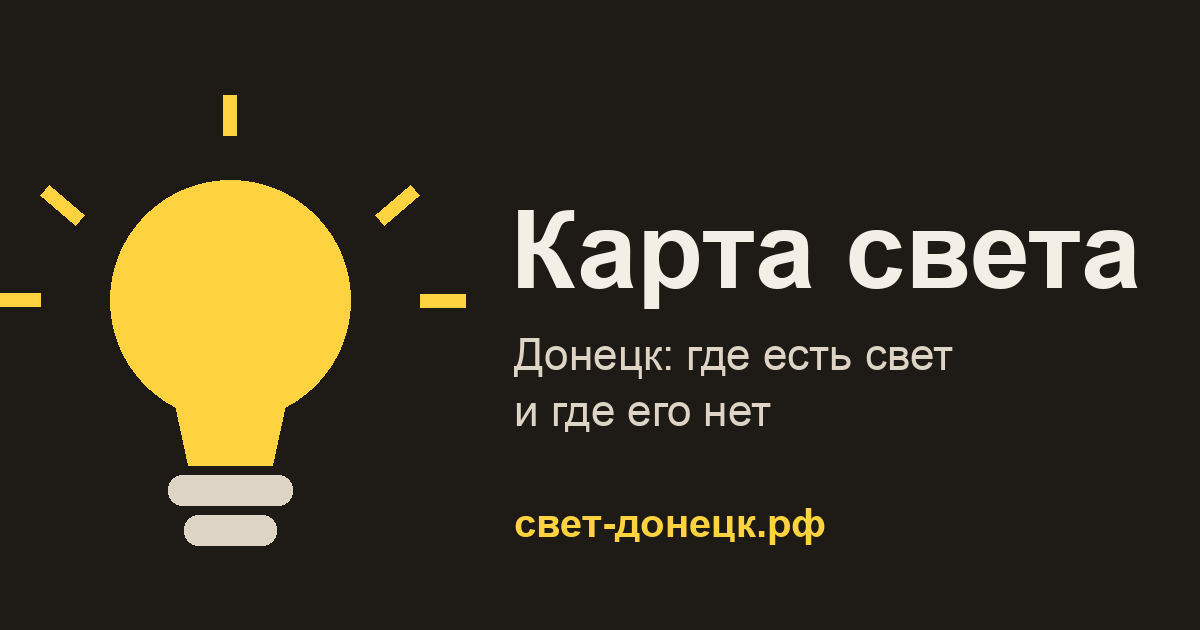
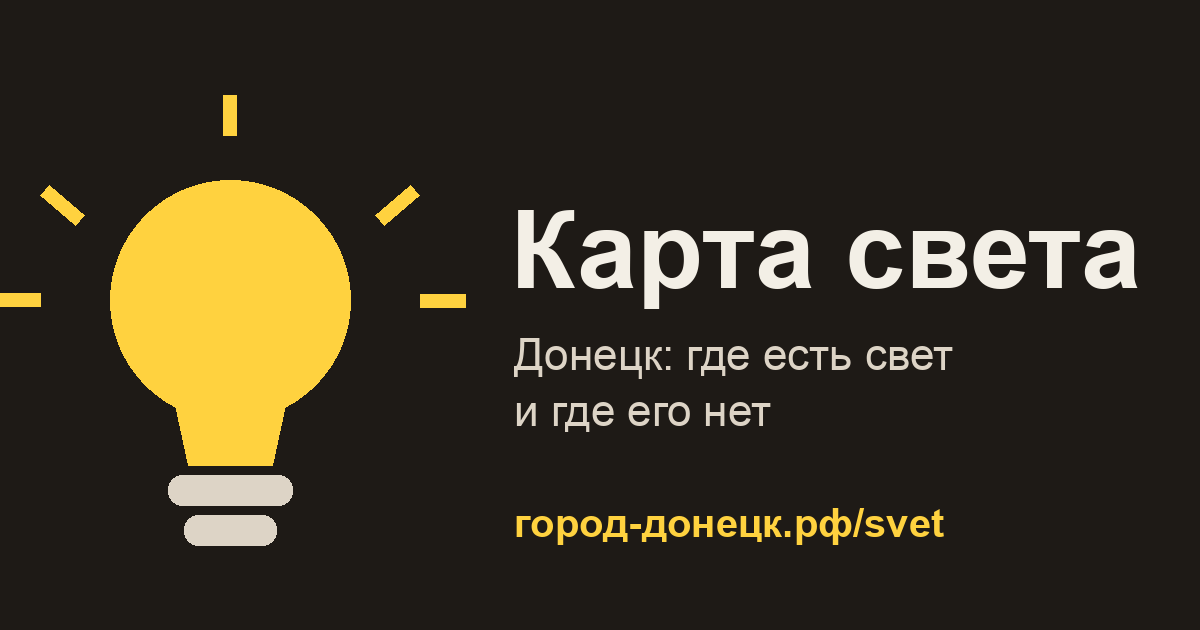
карта живёт разделом портала: префикс /svet и адрес из окружения
KARTA_ORIGIN, KARTA_BASE и KARTA_COUNTER задают домен, префикс раздела и счётчик. Сервер принимает пути с префиксом и без (старые датчики ходят в /api/ без него), в готовых страницах корневые ссылки получают префикс. Старый домен только перенаправляет, vhost нового домена добавлен.

Changed region(s): [[0.4317, 0.8143, 0.8017, 0.8746]]

diff --git a/index.html b/index.html
@@ -117,7 +117,7 @@
       <h3>Как узнать, есть ли свет в Донецке прямо сейчас?</h3><p>Откройте карту света: цвет каждой улицы показывает последнюю отметку, а блёклость показывает её возраст. Зелёный значит «свет есть», красный «света нет», серый «за сутки данных нет». Нажмите на улицу, чтобы увидеть, когда её отмечали и сколько людей это подтвердили.</p><h3>Откуда берутся данные о свете?</h3><p>Из отметок жителей на карте, сообщений в районных чатах и каналах, датчиков у жителей с постоянным интернетом и графика подачи света Киевского района. Точные данные рисуются сплошной линией, слова людей пунктиром.</p><h3>Куда звонить, если нет света?</h3><p>В информационно-консультационный центр Донецкэнерго: +7 (856) 302-11-51 и +7 (949) 300-79-30. Телефоны диспетчеров всех девяти районов собраны на странице «Куда звонить».</p><h3>Это официальный сайт Донецкэнерго?</h3><p>Нет. Карта света независимый проект жителей: данные собраны из отметок людей и открытых источников, поэтому важное проверяйте по телефону диспетчера.</p><h3>Как отметить свет на своей улице?</h3><p>Нажмите на карте на свою улицу, выберите размер области вокруг точки и кнопку «Свет есть» или «Света нет». Отметка сразу видна всем.</p>
     </section>
 
-    <p class="foot"><a href="about.html">О карте и источниках</a>. Линии улиц © участники OpenStreetMap.</p>
+    <p class="foot"><a href="{{HOME}}">Город Донецк</a>. <a href="about.html">О карте и источниках</a>. Линии улиц © участники OpenStreetMap.</p>
 
     <div id="last-mark" class="last-mark" aria-live="polite"></div>
   </aside>

diff --git a/about.html b/about.html
@@ -31,7 +31,7 @@
 </head>
 <body class="page">
   <article class="about">
-    <p class="eyebrow"><a href="./">← К карте</a></p>
+    <p class="eyebrow"><a href="./">← К карте</a> · <a href="{{HOME}}">Город Донецк</a></p>
     <h1>О карте света</h1>
     <p id="banner" class="banner"></p>
 

diff --git a/seo.py b/seo.py
@@ -7,6 +7,7 @@
 
 import html
 import json
+import os
 import re
 import time
 from contextlib import closing
@@ -18,7 +19,34 @@ import store
 from model import distance_m
 
 ROOT = Path(__file__).resolve().parent
-SITE = "https://xn----ctbhcc4athwm3c.xn--p1ai"
+# Исторический адрес: так написаны статические страницы (index.html, about.html).
+LEGACY_ORIGIN = "https://xn----ctbhcc4athwm3c.xn--p1ai"
+LEGACY_COUNTER = "113728535"
+# Где живёт карта. Отдельный домен: ORIGIN без BASE. Раздел портала: KARTA_BASE=/svet.
+ORIGIN = os.environ.get("KARTA_ORIGIN", LEGACY_ORIGIN).rstrip("/")
+BASE = os.environ.get("KARTA_BASE", "").rstrip("/")
+COUNTER = os.environ.get("KARTA_COUNTER", LEGACY_COUNTER)
+SITE = ORIGIN + BASE
+
+_LOCAL_LINK = re.compile(r'(\b(?:href|src|action)=")/(?!/)')
+
+
+def localize(text):
+    """Подгоняет готовую HTML-страницу под адрес и префикс из окружения.
+
+    Адреса сайта и корневые ссылки (`/ulica/...`, `/styles.css`) пишутся как для отдельного домена,
+    а когда карта живёт в разделе портала, получают префикс. Номер счётчика тоже берётся из окружения.
+    """
+    text = text.replace("{{HOME}}", ORIGIN + "/")
+    if SITE != LEGACY_ORIGIN:
+        text = text.replace(LEGACY_ORIGIN, SITE)
+    if BASE:
+        text = _LOCAL_LINK.sub(lambda m: m.group(1) + BASE + "/", text)
+    if COUNTER != LEGACY_COUNTER:
+        text = text.replace(LEGACY_COUNTER, COUNTER)
+    return text
+
+
 NAME = "Карта света"
 MSK = timezone(timedelta(hours=3))
 LIVE_TTL = 30
@@ -636,5 +664,5 @@ class Site:
         else:
             return None
         if page is None:
-            return 404, "<!DOCTYPE html><meta charset=utf-8><title>Не найдено</title><p>Такой страницы нет. <a href=\"/\">Карта света</a></p>", html_type
-        return 200, page, html_type
+            return 404, localize("<!DOCTYPE html><meta charset=utf-8><title>Не найдено</title><p>Такой страницы нет. <a href=\"/\">Карта света</a></p>"), html_type
+        return 200, localize(page), html_type

diff --git a/tests/test_localize.py b/tests/test_localize.py
@@ -1,0 +1,53 @@
+import importlib
+import os
+import sys
+import unittest
+from pathlib import Path
+
+sys.path.insert(0, str(Path(__file__).resolve().parent.parent))
+
+import seo
+
+ENV = ("KARTA_ORIGIN", "KARTA_BASE", "KARTA_COUNTER")
+
+
+def load(**env):
+    for key in ENV:
+        os.environ.pop(key, None)
+    os.environ.update(env)
+    return importlib.reload(seo)
+
+
+class LocalizeTest(unittest.TestCase):
+    def tearDown(self):
+        load()
+
+    def test_without_env_page_is_unchanged(self):
+        mod = load()
+        page = '<a href="/ulica/x">x</a><link rel="canonical" href="' + mod.LEGACY_ORIGIN + '/">'
+        self.assertEqual(mod.localize(page), page)
+
+    def test_section_prefix_and_origin(self):
+        mod = load(KARTA_ORIGIN="https://example.test", KARTA_BASE="/svet", KARTA_COUNTER="42")
+        page = (
+            '<link rel="canonical" href="' + mod.LEGACY_ORIGIN + '/">'
+            '<a href="/ulica/x">x</a><a href="//cdn.test/a">cdn</a><a href="https://other.test/">o</a>'
+            '<script src="/app.js"></script>ym(113728535,"init");<a href="{{HOME}}">home</a>'
+        )
+        out = mod.localize(page)
+        self.assertIn('href="https://example.test/svet/"', out)
+        self.assertIn('href="/svet/ulica/x"', out)
+        self.assertIn('href="//cdn.test/a"', out)
+        self.assertIn('href="https://other.test/"', out)
+        self.assertIn('src="/svet/app.js"', out)
+        self.assertIn("ym(42,", out)
+        self.assertIn('href="https://example.test/"', out)
+        self.assertEqual(mod.SITE, "https://example.test/svet")
+
+    def test_pages_use_site_with_prefix(self):
+        mod = load(KARTA_ORIGIN="https://example.test", KARTA_BASE="/svet")
+        self.assertTrue(mod.SITE.endswith("/svet"))
+
+
+if __name__ == "__main__":
+    unittest.main()

diff --git a/server.py b/server.py
@@ -192,11 +192,19 @@ class Handler(BaseHTTPRequestHandler):
                 return target
         return None
 
+    def app_path(self):
+        """Путь запроса без префикса раздела (KARTA_BASE) и без строки запроса."""
+        path = self.path.split("?", 1)[0]
+        base = seo.BASE
+        if base and (path == base or path.startswith(base + "/")):
+            path = path[len(base):] or "/"
+        return path
+
     def do_HEAD(self):
         self.do_GET()
 
     def do_GET(self):
-        path = self.path.split("?", 1)[0]
+        path = self.app_path()
         if path == "/api/live":
             with store.connect() as conn:
                 state = store.live(conn)
@@ -226,7 +234,10 @@ class Handler(BaseHTTPRequestHandler):
         if ctype.startswith("text/") or ctype.endswith("json") or ctype.endswith("javascript"):
             ctype += "; charset=utf-8"
         cache = "public, max-age=3600" if path.startswith(LONG_CACHE) else "no-store"
-        self.send_bytes(200, target.read_bytes(), ctype, cache)
+        body = target.read_bytes()
+        if target.suffix == ".html":
+            body = seo.localize(body.decode("utf-8")).encode("utf-8")
+        self.send_bytes(200, body, ctype, cache)
 
     def read_payload(self):
         length = int(self.headers.get("Content-Length") or 0)
@@ -240,7 +251,7 @@ class Handler(BaseHTTPRequestHandler):
         return data if isinstance(data, dict) else {}
 
     def do_POST(self):
-        path = self.path.split("?", 1)[0]
+        path = self.app_path()
         payload = self.read_payload()
         if payload is None:
             self.send_json({"ok": False, "reason": "слишком длинное сообщение"}, 413)

diff --git a/scripts/build_og.py b/scripts/build_og.py
@@ -27,5 +27,5 @@ small = ImageFont.truetype(FONTS + "Arial Bold.ttf", 40)
 d.text((510, 190), "Карта света", font=bold, fill="#f3efe6")
 d.text((514, 330), "Донецк: где есть свет", font=text, fill="#ddd4c6")
 d.text((514, 386), "и где его нет", font=text, fill="#ddd4c6")
-d.text((514, 500), "свет-донецк.рф", font=small, fill="#ffd23f")
+d.text((514, 500), "город-донецк.рф/svet", font=small, fill="#ffd23f")
 im.save(OUT, optimize=True)

diff --git a/README.md b/README.md
@@ -1,6 +1,6 @@
 # Карта света
 
-Карта улиц Донецка: где есть свет, где нет и насколько этому можно верить. Живая версия: https://свет-донецк.рф/
+Карта улиц Донецка: где есть свет, где нет и насколько этому можно верить. Живая версия: https://город-донецк.рф/svet/ (раньше https://свет-донецк.рф/)
 
 Статус улицы собирается из отметок людей (чаты, кнопки на карте) и графика отключений. У каждой отметки есть возраст и уверенность: чем старше и спорнее, тем блёклее цвет улицы. Зависимостей нет, только Python 3:
 
